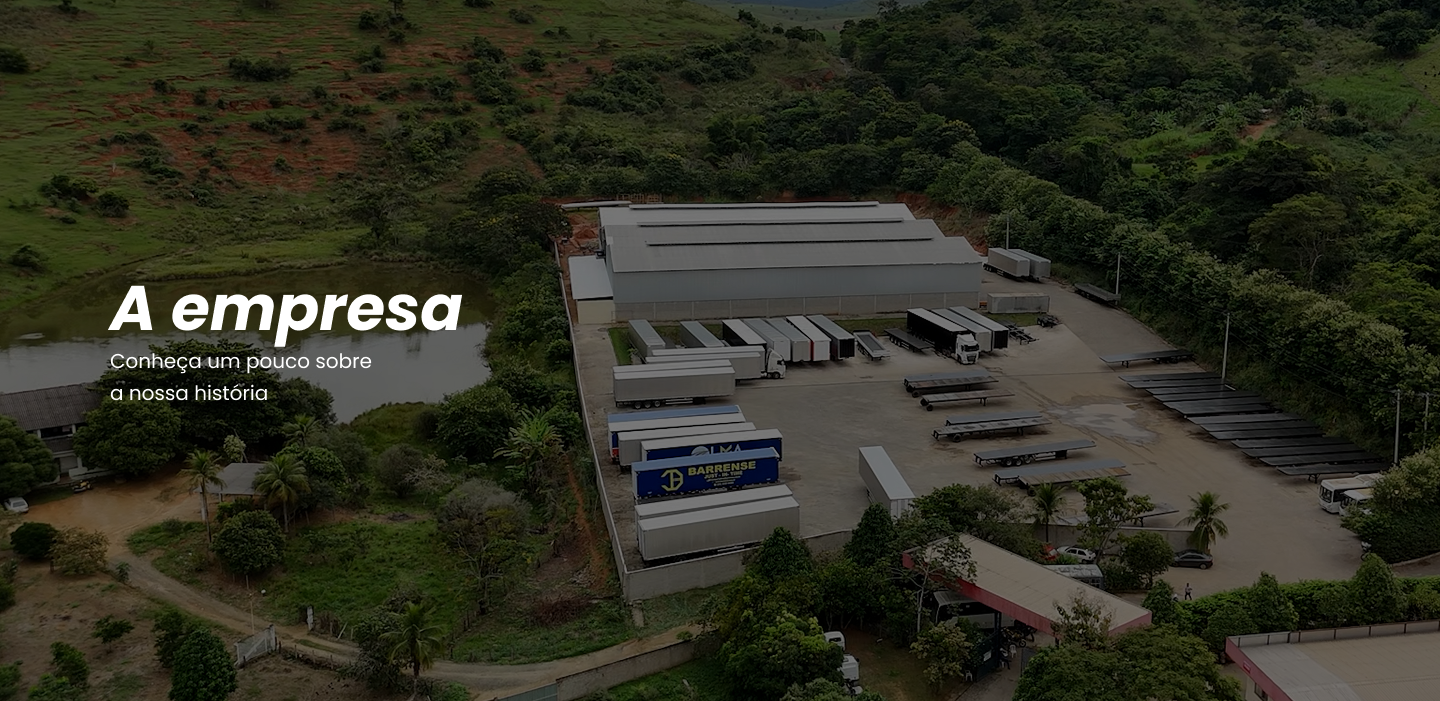
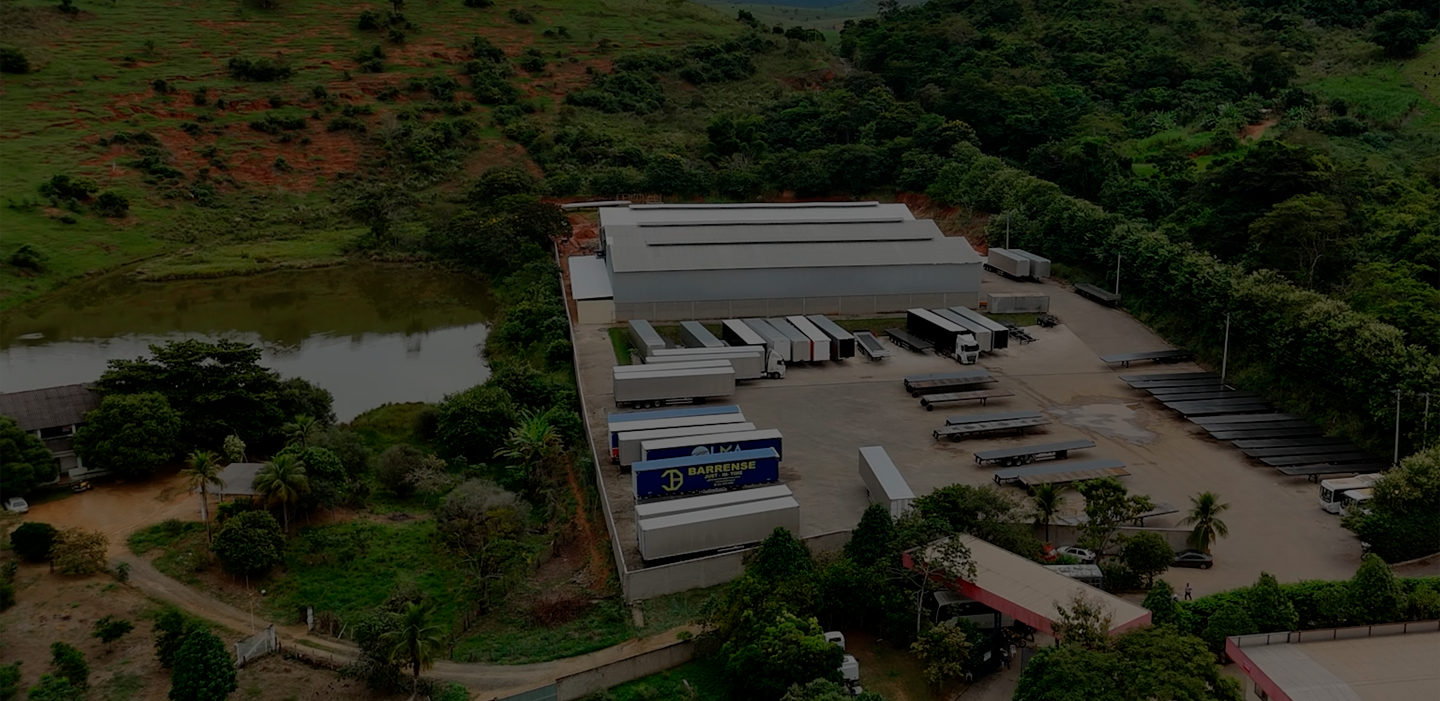
adicionado a href nos botões de contato e breadcrumbs

Changed region(s): [[0.0625, 0.4194, 0.3438, 0.5692]]

diff --git a/src/pages/SobreEmpresa.jsx b/src/pages/SobreEmpresa.jsx
@@ -5,7 +5,9 @@ import Container from '../components/Container';
 
 const SobreEmpresa = () => {
   return (
+    
     <MainLayout>
+
       {/* Hero Section com Container */}
       <div className="relative w-full">
         <img 
@@ -15,14 +17,13 @@ const SobreEmpresa = () => {
         />
         <div className="absolute inset-0 flex items-center">
           <Container>
-            <div className="text-white">
-              <h1 className="text-3xl sm:text-4xl md:text-5xl lg:text-6xl font-bold italic mb-4 drop-shadow-lg">
-                A empresa
-              </h1>
-              <p className="text-lg sm:text-xl md:text-2xl drop-shadow-lg">
-                Conheça um pouco sobre<br />a nossa história
-              </p>
-            </div>
+            <div className="text-center text-white">
+            <h1 className="text-3xl sm:text-4xl lg:text-5xl font-bold mb-4">A empresa</h1>
+            <div className="w-32 h-1 bg-white mx-auto mb-6 rounded" />
+            <p className="text-lg sm:text-xl max-w-3xl mx-auto leading-relaxed">
+              Conheça um pouco sobre a nossa história
+            </p>
+          </div>
           </Container>
         </div>
       </div>
@@ -35,7 +36,7 @@ const SobreEmpresa = () => {
               <img 
                 src="/images/soldador.png" 
                 alt="Soldador trabalhando" 
-                className="w-full h-full object-cover max-h-[500px]"
+                className="w-full h-full object-cover max-h-[550px]"
               />
             </div>
             <div className="w-full lg:w-1/2">

diff --git a/src/pages/Contato.jsx b/src/pages/Contato.jsx
@@ -7,14 +7,17 @@ const contatos = [
   {
     title: 'Telefone',
     description: '(032) 3696-4444',
+    link: 'tel:03236964444'
   },
   {
     title: 'Email',
     description: 'vendas@saopedro.ind.br',
+    link:'mailto:vendas@saopedro.end.br'
   },
   {
     title: 'Sede',
     description: 'Rodovia BR 116, Km 710, Bairro Santa Helena, Muriaé-MG - CEP 36884-255',
+    link: 'https://maps.app.goo.gl/BkwXiBBJndAQGnYZ9'
   },
 ];
 
@@ -29,11 +32,17 @@ const Contato = () => {
           <div className="w-full flex flex-col lg:flex-row lg:flex-wrap justify-center items-center gap-4 lg:gap-6">
             {contatos.map((contato, idx) => (
               <div key={idx} className="w-full max-w-sm lg:max-w-none lg:flex-1">
-                <ContatoCard
-                  title={contato.title}
-                  description={contato.description}
-                />
-              </div>
+  <a 
+    href={contato.link} 
+    target={contato.title === "Sede" ? "_blank" : "_self"} 
+    rel={contato.title === "Sede" ? "noopener noreferrer" : undefined}
+  >
+    <ContatoCard
+      title={contato.title}
+      description={contato.description}
+    />
+  </a>
+</div>
             ))}
           </div>
         </div>

diff --git a/src/pages/Equipamentos.jsx b/src/pages/Equipamentos.jsx
@@ -22,16 +22,17 @@ const ArrowRight = (props) => (
 const Equipamentos = () => {
   return (
     <MainLayout>
-      <section className="bg-[#e30613] text-white flex flex-col items-center justify-center min-h-[50vh] sm:min-h-[60vh] text-center w-full">
+      <div className="bg-gradient-to-r from-red-600 to-red-700 text-white py-16 sm:py-20">
         <Container>
-          <h1 className="text-3xl sm:text-4xl md:text-5xl lg:text-7xl font-bold m-0">
-            Melhores equipamentos
-          </h1>
-          <p className="text-lg sm:text-xl md:text-2xl mt-6 sm:mt-8 font-normal">
-            Onde o melhor para sua empresa está!
-          </p>
+          <div className="text-center">
+            <h1 className="text-3xl sm:text-4xl lg:text-5xl font-bold mb-4">Melhores equipamentos</h1>
+            <div className="w-32 h-1 bg-white mx-auto mb-6 rounded" />
+            <p className="text-lg sm:text-xl max-w-3xl mx-auto leading-relaxed">
+              Onde o melhor para sua empresa está!
+            </p>
+          </div>
         </Container>
-      </section>
+      </div>
       
       <section className="w-full py-12 sm:py-16">
         <Container>

diff --git a/src/pages/EquipamentoDetalhe.jsx b/src/pages/EquipamentoDetalhe.jsx
@@ -29,7 +29,9 @@ const EquipamentoDetalhe = () => {
       {/* Breadcrumb */}
       <div className="bg-[#e30613] p-4 sm:p-5 flex items-center gap-2 text-white text-base sm:text-lg font-light">
         <Container fullWidth>
-          <span>Equipamentos</span>
+          <a href={`/equipamentos/`}>
+            <span>Equipamentos</span> 
+          </a>
           <span className="mx-1">/</span>
           <span className="font-bold italic">{equipamento.nome}</span>
         </Container>
